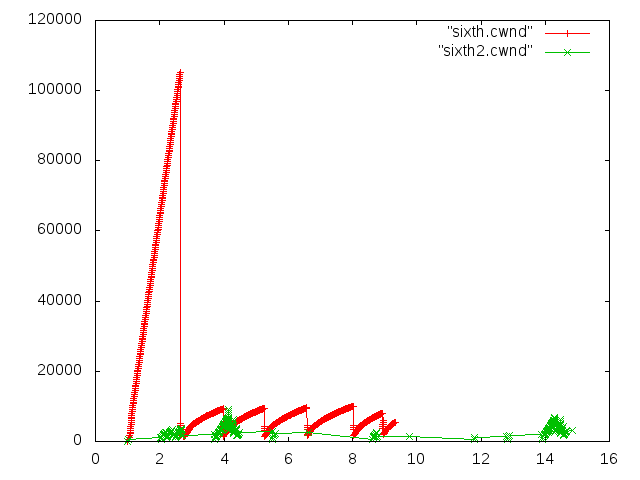
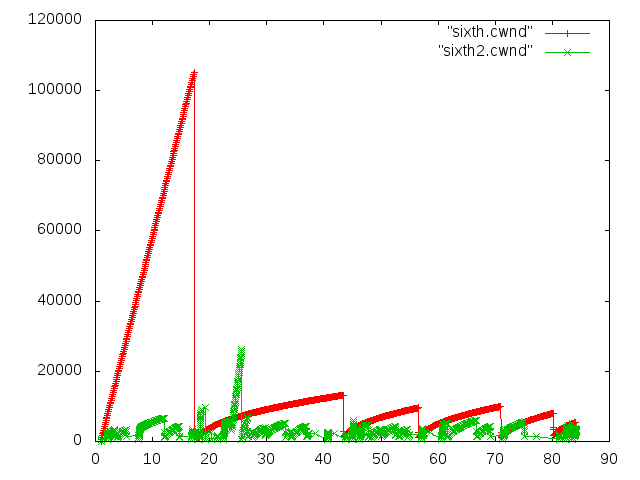
change parameter

Changed region(s): [[0.1562, 0.4375, 0.9062, 0.9688], [0.25, 0.125, 0.3125, 0.4062], [0.9375, 0.9375, 0.9688, 0.9688]]

diff --git a/ns3_proj/scratch/tcp.cc b/ns3_proj/scratch/tcp.cc
@@ -37,7 +37,7 @@ private:
     bool            m_running;
     uint32_t        m_packetsSent;
 };
-
+//application constructor
 MyApp::MyApp ()
         : m_socket (0),
           m_peer (),
@@ -65,7 +65,7 @@ TypeId MyApp::GetTypeId (void)
   ;
   return tid;
 }
-
+// initialize application variables
 void
 MyApp::Setup (Ptr<Socket> socket, Address address, uint32_t packetSize, uint32_t nPackets, DataRate dataRate)
 {
@@ -75,7 +75,7 @@ MyApp::Setup (Ptr<Socket> socket, Address address, uint32_t packetSize, uint32_t
   m_nPackets = nPackets;
   m_dataRate = dataRate;
 }
-
+// called to run the application
 void
 MyApp::StartApplication (void)
 {
@@ -85,7 +85,7 @@ MyApp::StartApplication (void)
   m_socket->Connect (m_peer);
   SendPacket ();
 }
-
+// for stop
 void
 MyApp::StopApplication (void)
 {
@@ -123,7 +123,7 @@ MyApp::ScheduleTx (void)
     m_sendEvent = Simulator::Schedule (tNext, &MyApp::SendPacket, this);
   }
 }
-
+//callbacks for congestion window updated
 static void
 CwndChange (Ptr<OutputStreamWrapper> stream, uint32_t oldCwnd, uint32_t newCwnd)
 {
@@ -131,6 +131,7 @@ CwndChange (Ptr<OutputStreamWrapper> stream, uint32_t oldCwnd, uint32_t newCwnd)
   *stream->GetStream () << Simulator::Now ().GetSeconds () << "\t" << oldCwnd << "\t" << newCwnd << std::endl;
 }
 
+//show the dropped packages
 static void
 RxDrop (Ptr<PcapFileWrapper> file, Ptr<const Packet> p)
 {
@@ -141,7 +142,7 @@ RxDrop (Ptr<PcapFileWrapper> file, Ptr<const Packet> p)
 int
 main (int argc, char *argv[])
 {
-  int enableVerbose = 0;
+  /*int enableVerbose = 0;
   if(argc == 2) {
     if(strcmp(argv[1], "-v") == 0) {
       enableVerbose = 1;
@@ -153,6 +154,7 @@ main (int argc, char *argv[])
   if(enableVerbose) {
     LogComponentEnableAll(LOG_LEVEL_INFO);
   }
+   */
   
   /* p2p nodes A--B */
   NodeContainer nodesAB;
@@ -216,15 +218,15 @@ main (int argc, char *argv[])
   PacketSinkHelper packetSinkHelper ("ns3::TcpSocketFactory", InetSocketAddress (Ipv4Address::GetAny (), sinkPort));
   ApplicationContainer sinkApps = packetSinkHelper.Install (nodesCD.Get (1));
   sinkApps.Start (Seconds (0.));
-  sinkApps.Stop (Seconds (20.));
+  sinkApps.Stop (Seconds (200.));
 
   /* set up a client */
   Ptr<Socket> ns3TcpSocket = Socket::CreateSocket (nodesAB.Get (0), TcpSocketFactory::GetTypeId ());
   Ptr<MyApp> app = CreateObject<MyApp> ();
-  app->Setup (ns3TcpSocket, sinkAddress, 1040, 1000, DataRate ("1Mbps"));
+  app->Setup (ns3TcpSocket, sinkAddress, 1040, 1000, DataRate ("0.1Mbps"));
   nodesAB.Get (0)->AddApplication (app);
   app->SetStartTime (Seconds (1.));
-  app->SetStopTime (Seconds (20.));
+  app->SetStopTime (Seconds (200.));
 
   AsciiTraceHelper asciiTraceHelper;
   Ptr<OutputStreamWrapper> stream = asciiTraceHelper.CreateFileStream ("sixth2.cwnd");
@@ -236,7 +238,7 @@ main (int argc, char *argv[])
 
   Ipv4GlobalRoutingHelper::PopulateRoutingTables ();
 
-  Simulator::Stop (Seconds (20));
+  Simulator::Stop (Seconds (200));
   Simulator::Run ();
   Simulator::Destroy ();
 
